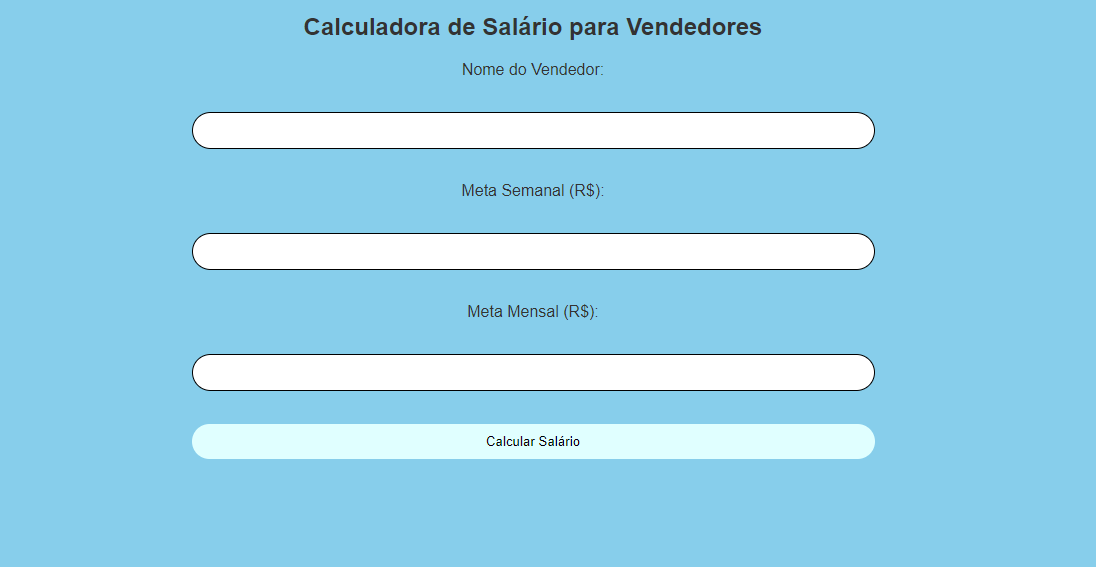
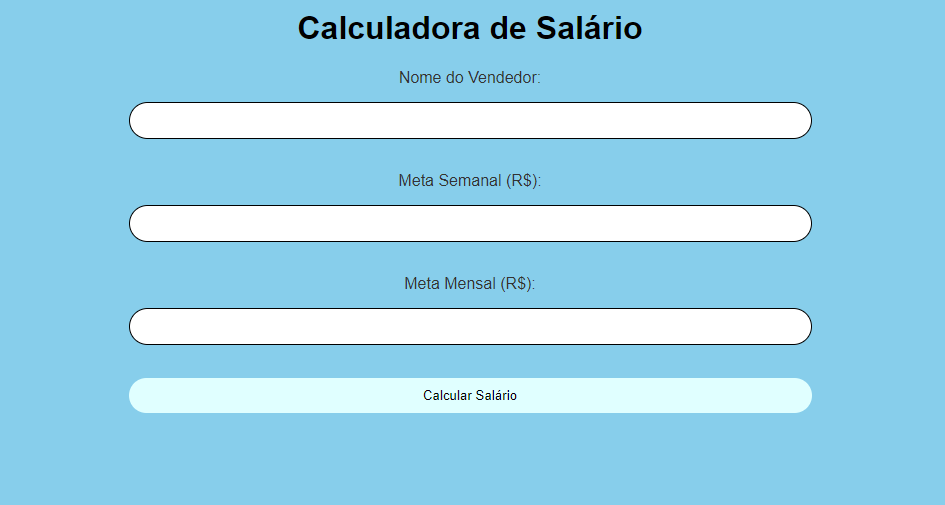
inserindo foto

diff --git a/Calculo.php b/Calculo.php
@@ -1,6 +1,7 @@
 <!DOCTYPE html>
-<html>
+<html lang="pt-br">
 <head>
+<meta charset="UTF-8">
     <title>Calculadora de Salário</title>
     <style>
         body {
@@ -62,41 +63,45 @@ button:hover {
 
 </head>
 <body>
-     <h2>Calculadora de Salário para Vendedores</h2>
-    <form method="post" action="">
-        <label for="nome">Nome do Vendedor:</label><br>
-        <input type="text" id="nome" name="nome" required><br><br>
-
-        <label for="meta_semanal">Meta Semanal (R$):</label><br>
+<h1>Calculadora de Salário</h1>
+    <form method="post" action="<?php echo $_SERVER["PHP_SELF"]; ?>">
+        <label for="nome_vendedor">Nome do Vendedor:</label>
+        <input type="text" id="nome_vendedor" name="nome_vendedor" required><br><br>
+        <label for="meta_semanal">Meta Semanal (R$):</label>
         <input type="number" id="meta_semanal" name="meta_semanal" required><br><br>
-
-        <label for="meta_mensal">Meta Mensal (R$):</label><br>
+        <label for="meta_mensal">Meta Mensal (R$):</label>
         <input type="number" id="meta_mensal" name="meta_mensal" required><br><br>
+        
 
         <button type="submit">Calcular Salário</button>
     </form>
 
     <?php
-    if ($_SERVER["REQUEST_METHOD"] == "POST") {
-        $nome = $_POST['nome'];
-        $meta_semanal = $_POST['meta_semanal'];
-        $meta_mensal = $_POST['meta_mensal'];
 
-        $salario_minimo = 1500;
-        $meta_semanal_alcancada = $meta_semanal >= 20000; 
-        $meta_mensal_alcancada = $meta_mensal >= 80000; 
-        $excedente_semanal = $meta_semanal - 20000; 
-        $excedente_mensal = $meta_mensal - 80000; 
-        
-        $bonus_semanal = $meta_semanal_alcancada ? ($meta_semanal * 0.01) : 0; 
-        $bonus_excedente_semanal = $meta_semanal_alcancada ? ($excedente_semanal * 0.05) : 0; 
-        $bonus_excedente_mensal = $meta_mensal_alcancada ? ($excedente_mensal * 0.10) : 0;
-
-        $salario_final = $salario_minimo + $bonus_semanal + $bonus_excedente_semanal + $bonus_excedente_mensal;
-        
-        echo "<h3>Resultado para $nome:</h3>";
-        echo "Salário Final: R$ " . number_format($salario_final, 2, ',', '.');
+function calcularSalario($metaSemanal, $metaMensal) {
+    $salarioMinimo = 1500; 
+    $bonusSemanal = ($metaSemanal / 100) * 1;
+    $excedenteSemanal = max(0, $metaSemanal - 20000);
+    $bonusExcedenteSemanal = ($excedenteSemanal / 100) * 5;
+    if ($metaSemanal >= 20000 && $metaMensal >= 80000) {
+        $excedenteMensal = max(0, $metaMensal - 80000);
+        $bonusExcedenteMensal = ($excedenteMensal / 100) * 10;
+    } else {
+        $bonusExcedenteMensal = 0;
     }
-    ?>
+    $salarioFinal = $salarioMinimo + $bonusSemanal + $bonusExcedenteSemanal + $bonusExcedenteMensal;
+    return $salarioFinal;
+}
+
+
+if ($_SERVER["REQUEST_METHOD"] == "POST") {
+    $metaSemanal = $_POST["meta_semanal"];
+    $metaMensal = $_POST["meta_mensal"];
+
+    $salarioFinal = calcularSalario($metaSemanal, $metaMensal);
+
+    echo "<h2>O salário final é: R$ " . number_format($salarioFinal, 2, ',', '.') . "</h2>";
+}
+?>
 </body>
 </html>
